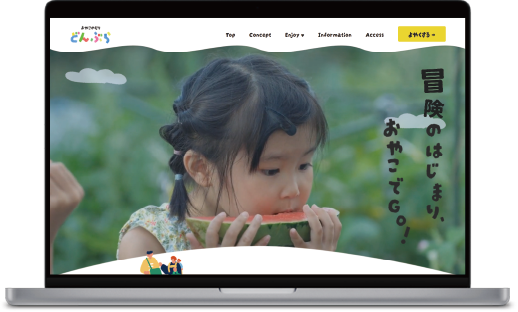
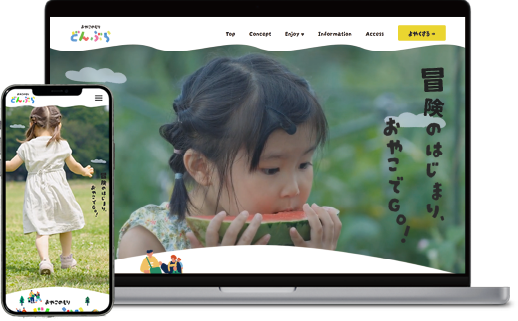
10/31

diff --git a/works_6/index.html b/works_6/index.html
@@ -48,7 +48,7 @@ $(window).on('scroll load', function(){        /* ページロード時、また
           <div class="wrapper">
             <div class="flex-pc flex-start">
               <!-- 画像 -->
-                <img src="../img/glamping_mockup.png" alt="架空のグランピング施設のサイト" width="510" height="307" class="mockup fadeIn">
+                <img src="../img/glamping_mockup.png" alt="パソコンで見た時の架空のグランピング施設のサイト" width="510" height="307" class="mockup fadeIn">
               <!-- 本文のブロック -->
                 <div class="fadeIn txt-content">
                   <p class="kadomaru-band2">チーム製作</p>
@@ -87,7 +87,9 @@ $(window).on('scroll load', function(){        /* ページロード時、また
           <div class="kanpu">
             <h3>Top page</h3>
             <p class="ja">トップページ</p>
-            <img src="../img/glamping_screen.png" alt="架空のグランピング施設のサイト TOPページのスクリーンショット" width="1818" height="10377" class="fadeIn">
+            <div class="flex responsive_screen">
+              <img src="../img/glamping_screen.png" alt="架空のグランピング施設のサイト パソコンで見た時のTOPページのスクリーンショット" width="1818" height="10377" class="fadeIn pc-top">
+              <img src="../img/glamping_sp_screen.png" alt="架空のグランピング施設のサイト スマートフォンで見た時のTOPページのスクリーンショット" width="796" height="8826" class="fadeIn sp-top">
           </div>
         </div>
     </section>

diff --git a/css/style.css b/css/style.css
@@ -193,7 +193,7 @@ p{
 /* 影のあるボタン */
 .shousai-btn{
   background-color: #eca8c6;
-  border-radius: 30px;
+  border-radius: 35px;
   padding: 15px 30px;
   border: 5px solid #222221;
   box-shadow: 0px 10px 0px -2px #777777;
@@ -232,6 +232,7 @@ p{
 .footer{
   background-color: #dc72a0;
   padding: 5% 0 2%;
+  border-top: 10px solid #222221;
 }
 .copyright{
   color: #222221;
@@ -487,8 +488,7 @@ body{
   padding: 7% 0 0 0;
   gap: 3%;
 }
-
-.work_page .flex-start img{
+.work_page .flex-start .mockup{
   width: 60%;
 }
   /* 本文エリア */
@@ -497,7 +497,6 @@ body{
   flex-direction: column;
   align-items: flex-start;
   /* width: 40vw; */
-
 }
 .work_page .content .ja{
   margin: 0 0 10% 0;
@@ -516,8 +515,16 @@ body{
 .kanpu .ja{
   margin: 0 0 5% 0;
 }
-.kanpu img{
+.kanpu .pc-top{
   width: 50%;
+}
+.kanpu .sp-top{
+  width: 20%;
+}
+.work_page .kanpu .responsive_screen{
+  justify-content: center;
+  align-items: flex-start;
+  gap: 5%;
 }
 
 
@@ -540,7 +547,7 @@ body{
   .work_page .wrapper{
     border-radius: 100px;
   }
-  .work_page .flex-start img{
+  .work_page .flex-start .mockup{
     width: 80%;
     margin-bottom: 7%;
   }
@@ -655,7 +662,7 @@ body{
   .top .shousai-btn2{
     border: 8px solid #222221;
   }
-  .work_page .flex-start img{
+  .work_page .flex-start .mockup{
     width: 90%;
     margin-bottom: 7%;
   }

diff --git a/index.html b/index.html
@@ -119,7 +119,7 @@ function rect() {
                             <p class="s14w400 m-b4">Illustrator/Photoshop/Figma</p> <!-- 使えるツール -->
                             <p> <!-- 気を付けてることとか -->
                                 デザインの基本4原則を心掛けながら、ターゲット層に適したデザインができるよう工夫しています。<br>
-                                またCTAボタンを目立たせたり、コンバージョンにつなげるためにどうしたらよいかを常に考えてデザインしています。
+                                またCTAボタンを目立たせるなど、コンバージョンにつなげるためにどうしたらよいかを常に考えてデザインしています。
                             </p>
                         </div>
                     </div>

diff --git a/works_1/index.html b/works_1/index.html
@@ -47,7 +47,7 @@ $(window).on('scroll load', function(){        /* ページロード時、また
         <div class="inner">
           <div class="wrapper">
             <div class="flex-pc flex-start">
-                <img src="../img/ring_mockup.png" alt="架空のファッションリングブランドサイト" width="510" height="325" class="mockup fadeIn">
+                <img src="../img/ring_mockup.png" alt="架空のファッションリングブランドサイト" width="510" height="325" class="fadeIn">
               <!-- 本文のブロック -->
                 <div class="fadeIn txt-content">
                   <p class="kadomaru-band">個人製作</p>

diff --git a/works_2/index.html b/works_2/index.html
@@ -48,7 +48,7 @@ $(window).on('scroll load', function(){        /* ページロード時、また
           <div class="wrapper">
             <div class="flex-pc flex-start">
               <!-- 画像 -->
-                <img src="../img/kosin_mockup.png" alt="架空の建設会社のコーポレートサイト" width="510" height="325" class="mockup fadeIn">
+                <img src="../img/kosin_mockup.png" alt="架空の建設会社のコーポレートサイト" width="510" height="325" class="fadeIn">
               <!-- 本文のブロック -->
                 <div class="fadeIn txt-content">
                   <p class="kadomaru-band">個人製作</p>

diff --git a/works_4/index.html b/works_4/index.html
@@ -48,7 +48,7 @@ $(window).on('scroll load', function(){        /* ページロード時、また
           <div class="wrapper">
             <div class="flex-pc flex-start">
               <!-- 画像 -->
-                <img src="../img/kawamiyabi_mockup.png" alt="架空の革靴屋のブランドサイト" width="510" height="325" class="mockup fadeIn">
+                <img src="../img/kawamiyabi_mockup.png" alt="架空の革靴屋のブランドサイト" width="510" height="325" class="fadeIn">
               <!-- 本文のブロック -->
                 <div class="fadeIn txt-content">
                   <p class="kadomaru-band">個人製作</p>

diff --git a/works_3/index.html b/works_3/index.html
@@ -48,7 +48,7 @@ $(window).on('scroll load', function(){        /* ページロード時、また
           <div class="wrapper">
             <div class="flex-pc flex-start">
               <!-- 画像 -->
-                <img src="../img/serenatura_mockup.png" alt="架空の化粧品ブランドサイト" width="510" height="325" class="mockup fadeIn">
+                <img src="../img/serenatura_mockup.png" alt="架空の化粧品ブランドサイト" width="510" height="325" class="fadeIn">
               <!-- 本文のブロック -->
                 <div class="fadeIn txt-content">
                   <p class="kadomaru-band">個人製作</p>

diff --git a/works_5/index.html b/works_5/index.html
@@ -48,7 +48,7 @@ $(window).on('scroll load', function(){        /* ページロード時、また
           <div class="wrapper">
             <div class="flex-pc flex-start">
               <!-- 画像 -->
-                <img src="../img/taiyouyouchien_mockup.png" alt="架空の幼稚園のサイト" width="510" height="325" class="mockup fadeIn">
+                <img src="../img/taiyouyouchien_mockup.png" alt="架空の幼稚園のサイト" width="510" height="325" class="fadeIn">
               <!-- 本文のブロック -->
                 <div class="fadeIn txt-content">
                   <p class="kadomaru-band">個人製作</p>
